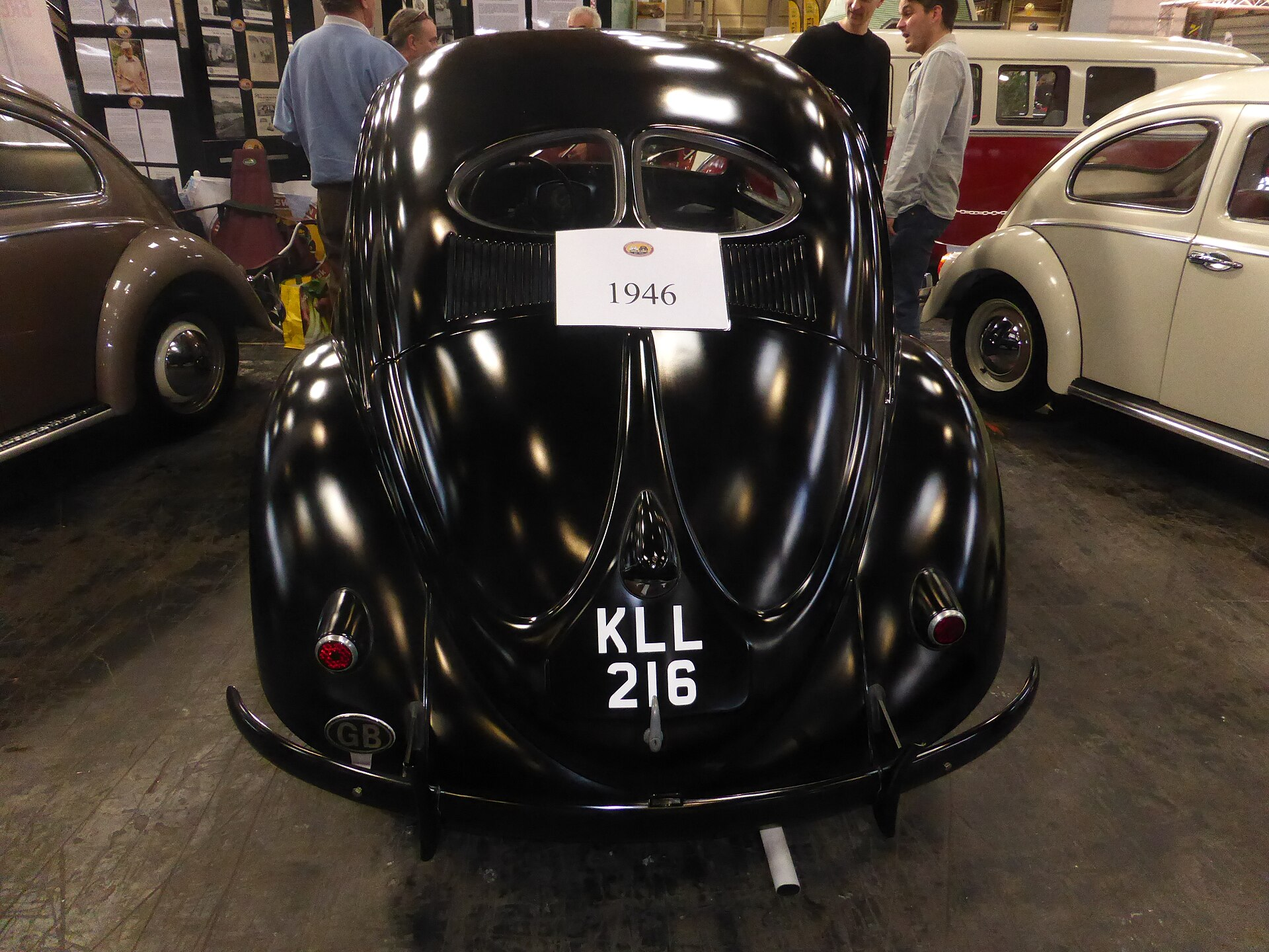
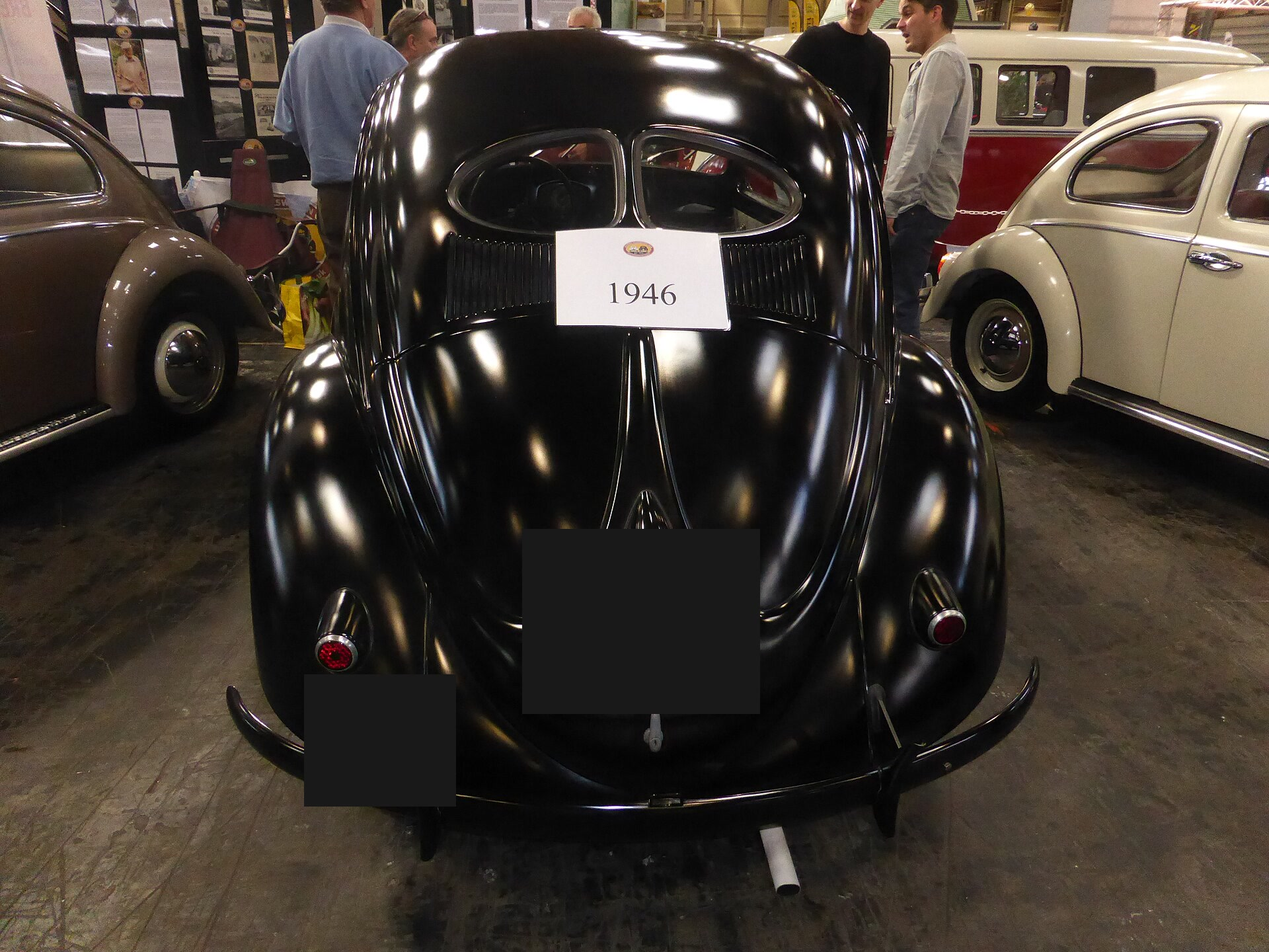
fix: COM crop H1_1946 — placa coberta COM/TEC gate (≥100 KB)
Replace uncropped Commons tipada (readable KLL 216) with Carbon Black
covers over plate + oval GB. Keep Commons cite. H1b/M6/Cap.2/N0 untouched.

Unpublished. Do not merge as publish.

Changed region(s): [[0.4375, 0.5625, 0.5625, 0.75], [0.2188, 0.7188, 0.3438, 0.875]]

diff --git a/tests/test_vis_tipadas_h1_m6.py b/tests/test_vis_tipadas_h1_m6.py
@@ -13,7 +13,7 @@ N0_HTML = ROOT / "docs" / "propostas" / "COM-PDF-APR-N0" / "index.html"
 MIN_BYTES = 100_000
 
 TIPADAS = (
-    ("H1_VW_Beetle_1946_SRC-commons.jpg", 529_615),
+    ("H1_VW_Beetle_1946_SRC-commons.jpg", 512_333),
     ("H1_KdF_Wagen42_SRC-commons.jpg", 434_867),
     ("M6_T_motor30PS1959_SRC-commons.jpg", 578_324),
 )

diff --git a/docs/acervo/vis-tipadas/SOURCES.md b/docs/acervo/vis-tipadas/SOURCES.md
@@ -10,11 +10,11 @@ Bytes neste repo = tipadas Ops (Drive `files.get` `size` = aceite). Commons orig
 | Campo | Valor |
 |---|---|
 | Ficheiro Hub | `H1_VW_Beetle_1946_SRC-commons.jpg` |
-| Bytes | **529 615** |
+| Bytes | **512 333** |
 | Drive | https://drive.google.com/file/d/1vjVvZ18DYGUREYEfYFzvadlOa3OHGwbp/view · id `1vjVvZ18DYGUREYEfYFzvadlOa3OHGwbp` |
 | Commons | [File:VW Beetle (1946).jpg](https://commons.wikimedia.org/wiki/File:VW_Beetle_(1946).jpg) |
 | Autor / licença | Andrew Bone (Flickr andreboeni) · [CC BY 2.0](https://creativecommons.org/licenses/by/2.0/) |
-| Nota | NEC Classic Car Show, Birmingham · vigia split · placa **KLL 216** / GB. Slot **Mód.1 V-G1**, não N0-H1 Era B1. |
+| Nota | NEC Classic Car Show, Birmingham · vigia split · placa coberta COM/TEC gate. Slot **Mód.1 V-G1**, não N0-H1 Era B1. |
 
 ## H1b · VIS-G1 · KdF-Wagen 1942
 

diff --git a/docs/acervo/vis-tipadas/README.md b/docs/acervo/vis-tipadas/README.md
@@ -10,7 +10,7 @@ Este pacote **não** é curso Mód.1, **não** é PDF M6 Avançado, **não** é 
 
 | Slot Mestra | Arquivo | Bytes | Onde cola | O que **não** é |
 |---|---|---|---|---|
-| **VIS-G1 / H1a** | `H1_VW_Beetle_1946_SRC-commons.jpg` | 529 615 | Mód.1 V-G1 · gênese / protótipos | **≠** ficha `N0-H1` Era B1 1959–66 em COM-PDF-APR-N0 |
+| **VIS-G1 / H1a** | `H1_VW_Beetle_1946_SRC-commons.jpg` | 512 333 | Mód.1 V-G1 · gênese / protótipos | **≠** ficha `N0-H1` Era B1 1959–66 em COM-PDF-APR-N0 |
 | **VIS-G1 / H1b** | `H1_KdF_Wagen42_SRC-commons.jpg` | 434 867 | Mód.1 V-G1 · KdF / gênese | **≠** Anchieta 03/01/1959 · **≠** N0-H1 |
 | **M6 tronco T** | `M6_T_motor30PS1959_SRC-commons.jpg` | 578 324 | M6 térmica (único ≠ Cap.2) | **≠** DUP `M6_T_engineBayTin` / `Cap2_engineBay` |
 

diff --git a/MEMORY.md b/MEMORY.md
@@ -32,7 +32,7 @@
 
 ## VIS tipadas H1 / VIS-G1 + M6_T (05/09/2026)
 - Pasta unpublished `docs/acervo/vis-tipadas/` — três Commons SRC ≥100 KB (TEC PASS)
-- H1a `H1_VW_Beetle_1946` (529615) · H1b `H1_KdF_Wagen42` (434867) → **VIS-G1 / Mód.1 V-G1** gênese. **≠** ficha N0-H1 Era B1 1959–66
+- H1a `H1_VW_Beetle_1946` (512333, placa coberta COM/TEC gate) · H1b `H1_KdF_Wagen42` (434867) → **VIS-G1 / Mód.1 V-G1** gênese. **≠** ficha N0-H1 Era B1 1959–66
 - M6 `M6_T_motor30PS1959` (578324) → tronco T único. **≠** DUP `M6_T_engineBayTin` / `Cap2_engineBay`
 - Sem Cap.2 / N0 A.8 neste PR. Sem HenryFord. Caixa 8/12 AUSENTE. A1 HOLD. Sem PDF M6 / módulo Variant
 - Guarda: `tests/test_vis_tipadas_h1_m6.py`. Índice VIS: Notion `3d27d36bae6481e8a8d8ed280f9acbdd`

diff --git a/CHANGELOG.md b/CHANGELOG.md
@@ -11,6 +11,7 @@ e este projeto adere ao [Semantic Versioning](https://semver.org/lang/pt-BR/).
 
 ### Adicionado
 - `docs/acervo/vis-tipadas/`: três JPEGs Commons SRC ≥100 KB (H1×2 gênese + M6 tronco T único)
+- H1a `H1_VW_Beetle_1946` COM crop: placa coberta COM/TEC gate (512 333 B ≥100 KB); H1b/M6 intactos
 - `SOURCES.md` + `README.md` com mapa VIS-G1/H1×2 + M6_T, Drive IDs e índice VIS
 - Guarda `tests/test_vis_tipadas_h1_m6.py` (existência + ≥100000; DUPs/HenryFord fora; N0-H1 Era B1 intacta)
 - Pacote separado de Cap.2 / N0 A.8. Não publicar
